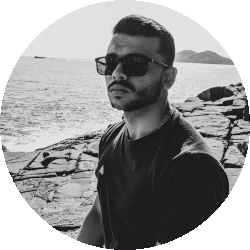
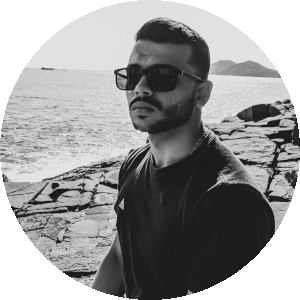
About profile feito, sem descrição por enquanto

diff --git a/Assets/Css/styles.css b/Assets/Css/styles.css
@@ -328,15 +328,17 @@ Estilos da pagina
   display: flex;
   flex-wrap: wrap;
   /*gap: 1rem;
-  */align-items: center;
+  */
+  align-items: center;
   justify-content: center;
   border-radius: 10px;
   max-width: 700px;
-  background-color: var(--dark-background-lightest)    var(--dark-background-medium);
+  background-color: var(--dark-background-lightest)
+    var(--dark-background-medium);
   outline: 1px solid var(--primary-color);
   border-block: 2px solid var(--primary-color);
   box-shadow: 0 0 15px var(--neon-primary-color);
-  width: 98%;
+  width: 97%;
 }
 
 .profileHeader {
@@ -345,25 +347,17 @@ Estilos da pagina
   border-radius: 10px 10px 0px 0px;
   /*background profile*/
   background: url("../img/profile/_20210520_174153E.jpg") center center / cover
-      no-repeat,
-    linear-gradient(
-      35deg,
-      var(--primary-color) 10%,
-      var(--quaternary-color),
-      var(--secondary-color)
-    );
-  /* margin-bottom: 1.5rem; */
+    no-repeat;
   border-bottom: 1px solid var(--black-5);
   box-shadow: var(--shadow-M);
 }
 .profileHeader img {
   margin: 60px 20px;
   min-width: 150px;
-  min-height: 150px;
   max-width: 160px;
-  max-height: 160px;
   border-radius: 50%;
-  outline: 4px solid var(--white-3);
+  outline: 3px solid var(--white-3);
+  border: 1px solid var(--primary-color);
   box-shadow: var(--shadow-M);
   object-fit: cover;
   overflow: hidden;
